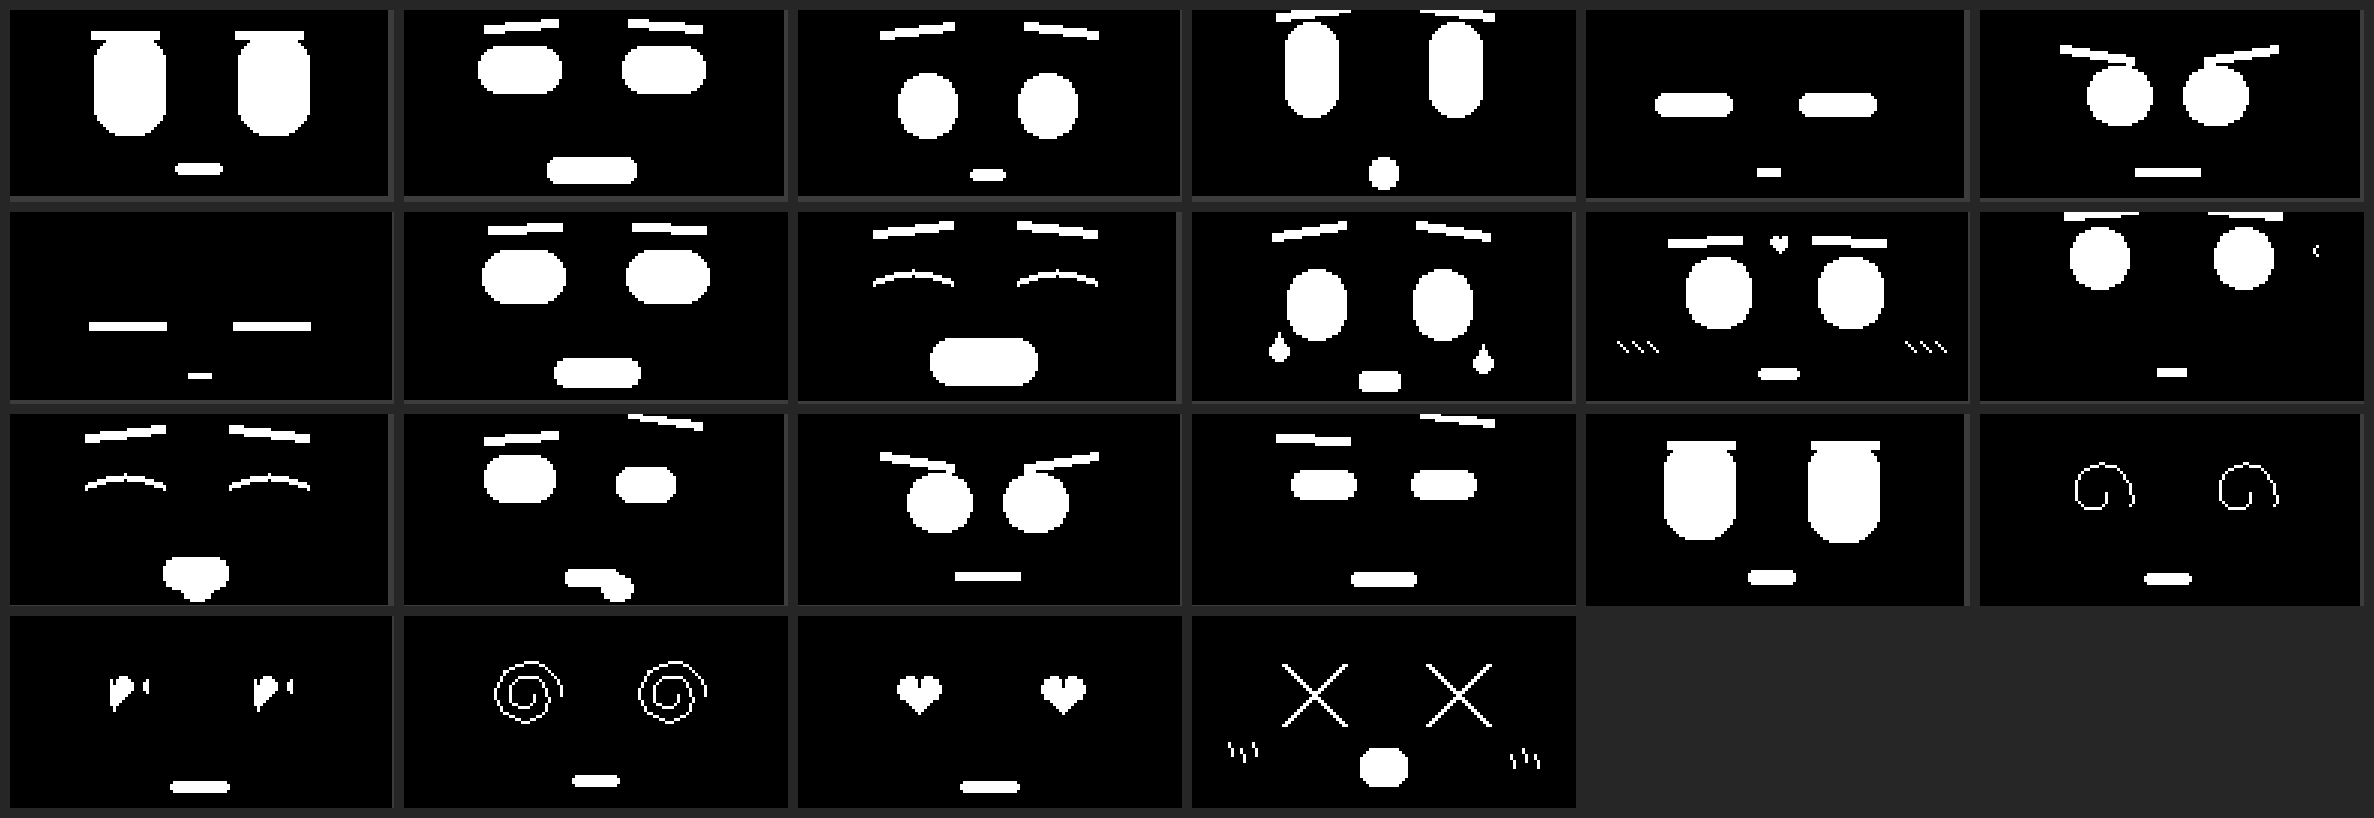
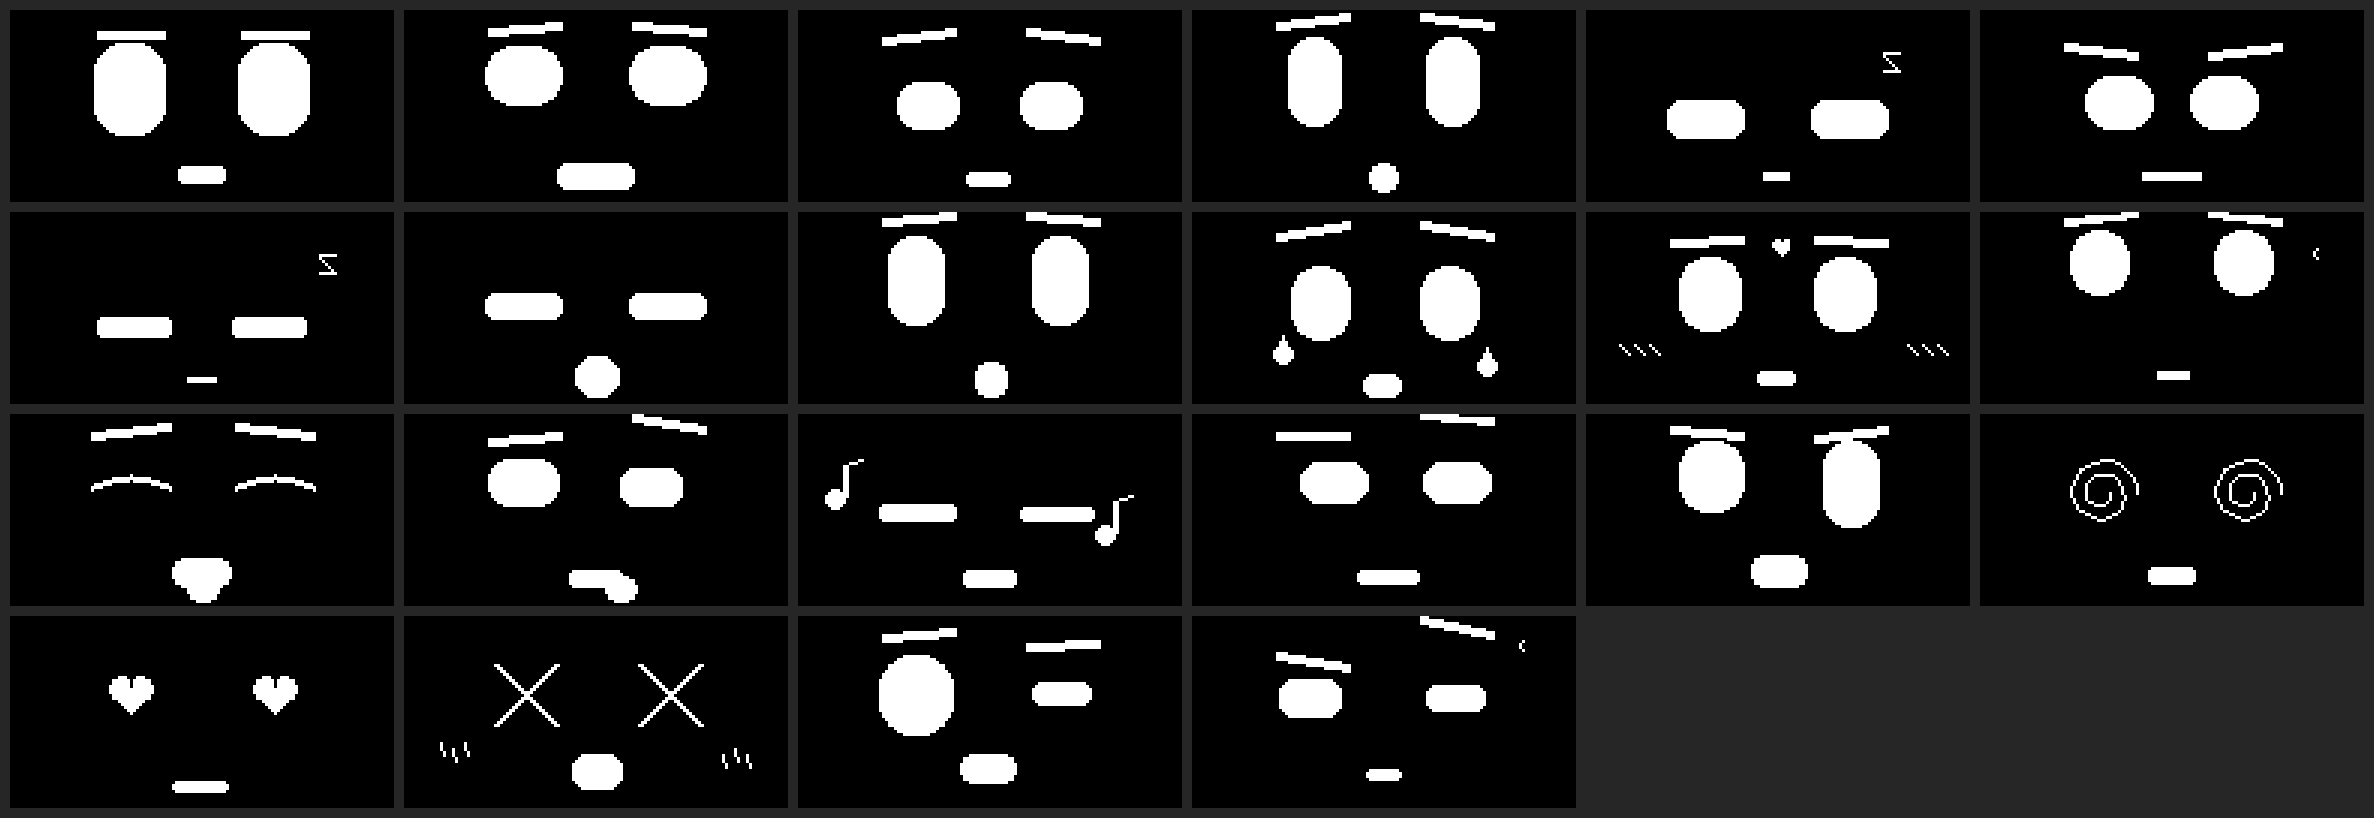
docs(faces): renumber all 22 to match the enum, and re-dump every face from the board
The image set had drifted from the code:

- docs/faces still carried 09_blink and 10_battle. Those two enum values no
  longer exist; BLINK and BATTLE were dropped when HELLO and INVESTIGATE were
  added, so every name after index 8 was shifted one or two slots off.
- The README expression tables still listed the old names (9 blink / 10 battle
  / 11 cry / 18 panic ...), while the web page already used the current ones
  (9 cry / 10 shy / 16 panic / 20 hello / 21 investigate).
- 17_dizzy, 18_love and 19_sneeze were reconstructions drawn from the code
  rather than board captures.

Fixed by dumping all 22 faces over serial with F0..F21 + P, then writing them
straight out as 00_neutral .. 21_investigate. faces_grid.png is rebuilt from
those 22 singles, and both README tables now match the enum and the web page.

Also bumped the program-size line to the current build (1,033,025 bytes).

diff --git a/README.md b/README.md
@@ -111,9 +111,9 @@ bcee8860ce9250433795d84c95fa088e6b265c8fa9fcd1c0b3f3fec2fe9c9c81  .ino
 | | | | | | |
 |---|---|---|---|---|---|
 | 0 呆萌 | 1 开心 | 2 难过 | 3 惊讶 | 4 犯困 | 5 生气 |
-| 6 睡着 | 7 打哈欠 | 8 大笑 | 9 眨眼 | 10 战斗 | 11 大哭 |
-| 12 害羞 | 13 思考 | 14 好吃 | 15 嫌弃 | 16 听歌 | 17 自信 |
-| 18 慌张 | 19 晕 | 20 爱心 | 21 打喷嚏 | | |
+| 6 睡着 | 7 打哈欠 | 8 大笑 | 9 哭 | 10 害羞 | 11 思考 |
+| 12 好吃 | 13 嫌弃 | 14 听歌 | 15 自信 | 16 慌张 | 17 晕 |
+| 18 爱心 | 19 喷嚏 | 20 挥手 | 21 疑惑 | | |
 
 单张 128×64 图在 [`docs/faces/`](docs/faces/) —— 这些是**真机帧缓冲的原始 dump**，不是电脑渲染出来的效果图。
 
@@ -313,7 +313,7 @@ arduino-cli upload \
   firmware/oled_face_pendant
 ```
 
-资源占用：**程序空间 1,030,509 / 1,310,720 字节（78%）**，RAM 约 12%。
+资源占用：**程序空间 1,033,025 / 1,310,720 字节（78%）**，RAM 约 12%。
 
 外部库只有一个：`U8g2`（作者 oliver）。
 

diff --git a/README.en.md b/README.en.md
@@ -100,9 +100,9 @@ That means **new expressions cost 4 lines of parameters, not 1 KB of bitmap.**
 | | | | | | |
 |---|---|---|---|---|---|
 | 0 NEUTRAL | 1 HAPPY | 2 SAD | 3 SURPRISED | 4 SLEEPY | 5 ANGRY |
-| 6 SLEEPING | 7 YAWN | 8 LAUGH | 9 BLINK | 10 BATTLE | 11 CRY |
-| 12 SHY | 13 THINK | 14 YUMMY | 15 MOCK | 16 MUSIC | 17 CONFIDENT |
-| 18 PANIC | 19 DIZZY | 20 LOVE | 21 SNEEZE | | |
+| 6 SLEEPING | 7 YAWN | 8 LAUGH | 9 CRY | 10 SHY | 11 THINK |
+| 12 YUMMY | 13 MOCK | 14 MUSIC | 15 CONFIDENT | 16 PANIC | 17 DIZZY |
+| 18 LOVE | 19 SNEEZE | 20 HELLO | 21 INVESTIGATE | | |
 
 Individual 128×64 captures are in [`docs/faces/`](docs/faces/) — these are raw frame-buffer dumps from the real device, not renders.
 
@@ -309,7 +309,7 @@ arduino-cli upload \
   firmware/oled_face_pendant
 ```
 
-Resource use: **1,030,509 bytes of 1,310,720 (78 %)** program space, ~12 % RAM.
+Resource use: **1,033,025 bytes of 1,310,720 (78 %)** program space, ~12 % RAM.
 
 Library dependencies: `U8g2` by oliver (only external library).
 
